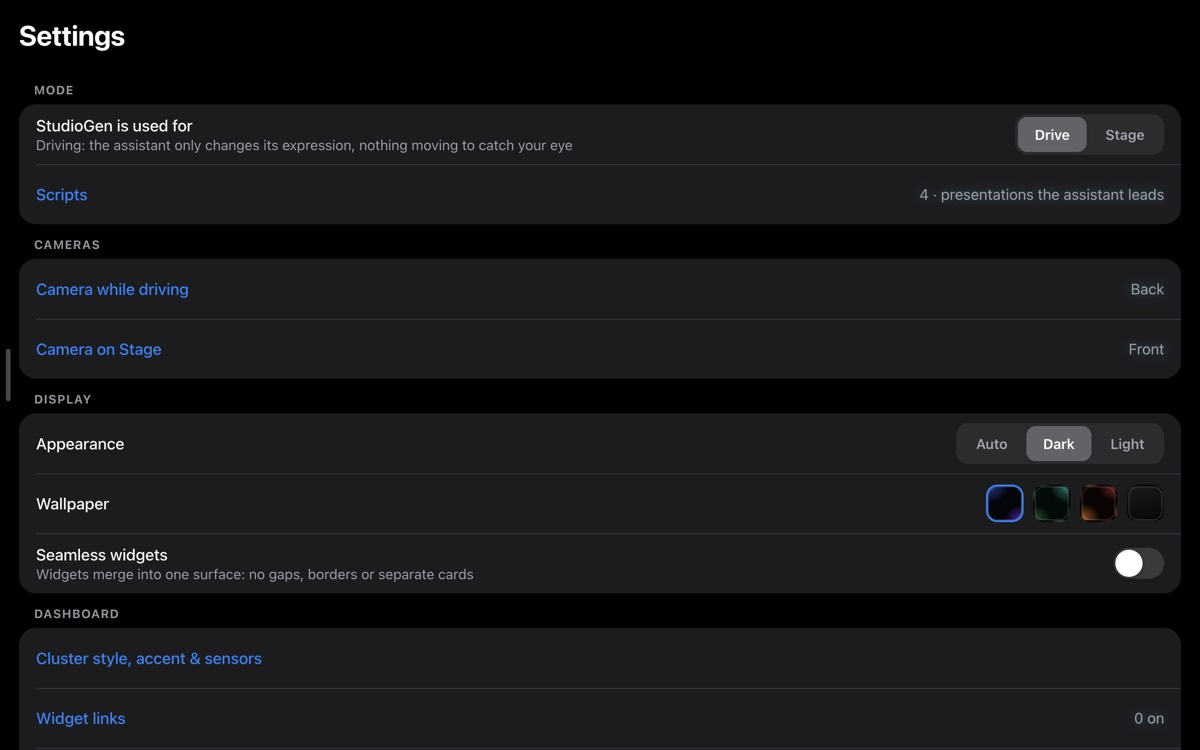
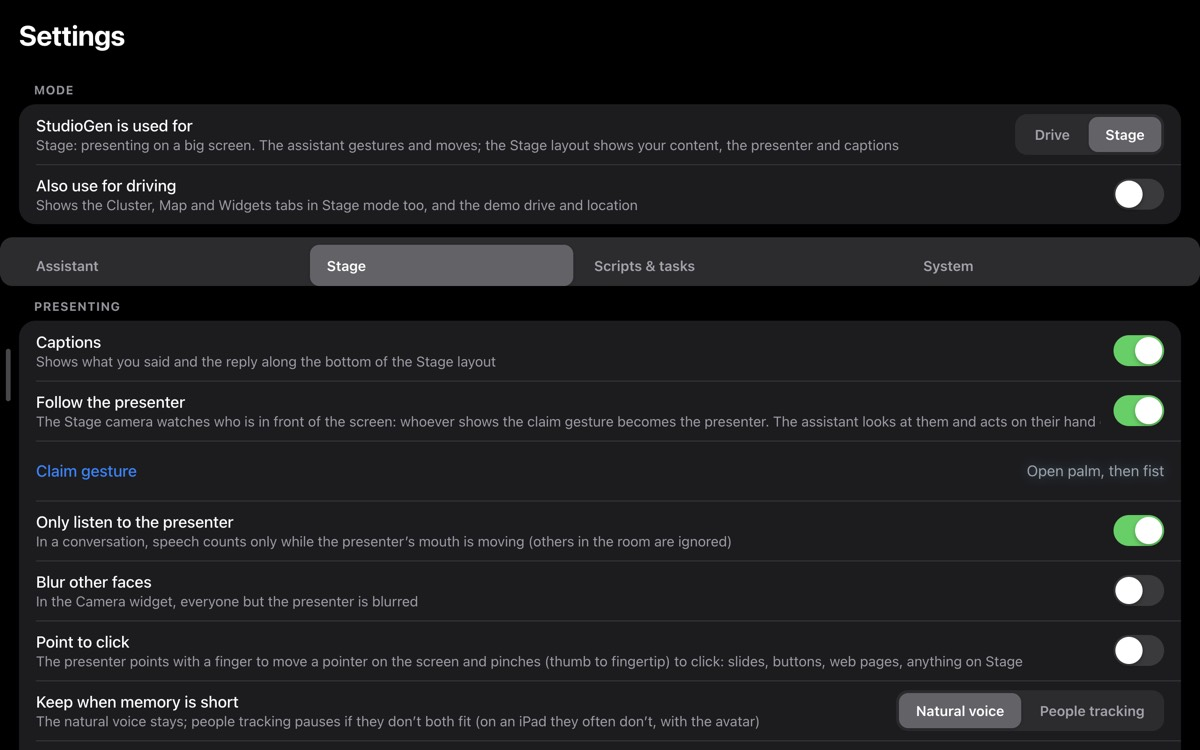
Settings in tabs by use; requirements page with the new screens
- Settings: the mode on top (what it's used for, also for driving), then tabs
  Assistant / Stage / Drive / Scripts & tasks / System; Drive only where it's used;
  Stage options in "Presenting"; a Scripts & tasks group (scripts, Understanding,
  connections, allowed tasks)
- docs/requirements.html: statuses updated, screenshots of the capture review,
  avatars, interactive editor, OS task, data widget and Connections

diff --git a/docs/requirements.html b/docs/requirements.html
@@ -46,7 +46,7 @@
 <body>
 <main>
   <h1>DriveGen &amp; StudioGen: requirements baseline</h1>
-  <p class="mut">What the two apps do, or are to do, from the user's point of view: one row per requirement, with its status. Updated as features are built. Baseline of 17 October 2026 (web files 33, desktop app 0.6.2).</p>
+  <p class="mut">What the two apps do, or are to do, from the user's point of view: one row per requirement, with its status. Updated as features are built. Baseline of 17 October 2026 (web files 33, desktop app 0.6.2); updated the same day as features landed (desktop app 0.8.0).</p>
 
   <ul class="toc">
     <li><a href="#vision">1. Vision: two apps, one code base</a></li>
@@ -78,12 +78,18 @@
     <figure><img src="req/drive-map.jpg" alt="Map layout"><figcaption>Drive: Map layout</figcaption></figure>
     <figure><img src="req/drive-widgets.jpg" alt="Widgets page"><figcaption>Drive: Widgets page</figcaption></figure>
     <figure><img src="req/stage.jpg" alt="Stage layout"><figcaption>Stage: a real browser widget (goindigo.in) beside the assistant</figcaption></figure>
-    <figure><img src="req/settings.jpg" alt="Settings"><figcaption>Settings: Mode, Cameras, Display… (one long list today)</figcaption></figure>
+    <figure><img src="req/settings.jpg" alt="Settings"><figcaption>Settings: the mode on top, then tabs by use (Assistant · Stage · Drive · Scripts &amp; tasks · System)</figcaption></figure>
     <figure><img src="req/scripts.jpg" alt="Scripts"><figcaption>Settings › Scripts: scripts, library address, sections</figcaption></figure>
     <figure><img src="req/editor.jpg" alt="Script editor"><figcaption>Script editor: storyboard cards with Show / Say / Next lanes</figcaption></figure>
     <figure><img src="req/library.jpg" alt="Library"><figcaption>Library: bundles to import, address, link</figcaption></figure>
     <figure><img src="req/motions.jpg" alt="Assistant motions"><figcaption>Assistant motions: preview, the assistant, capture</figcaption></figure>
     <figure><img src="req/capture.jpg" alt="Capture a motion"><figcaption>Capture a motion: full screen (test video as the camera)</figcaption></figure>
+    <figure><img src="req/capture-review.jpg" alt="Capture review"><figcaption>Capture review: trim bar; the legs keep the stance</figcaption></figure>
+    <figure><img src="req/avatars.jpg" alt="Avatars"><figcaption>Avatars: the core one, the others downloaded on request, add your own</figcaption></figure>
+    <figure><img src="req/interactive-editor.jpg" alt="Interactive script editor"><figcaption>Interactive script: intents with phrases, questions, steps (repeat, set…)</figcaption></figure>
+    <figure><img src="req/os-task.jpg" alt="Task on this computer"><figcaption>A task on this computer (JavaScript for Automation), its result kept as {front}</figcaption></figure>
+    <figure><img src="req/data-widget.jpg" alt="Data widget"><figcaption>Data widget on Stage: the Sales analyst sample, revenue by region</figcaption></figure>
+    <figure><img src="req/connections.jpg" alt="Connections"><figcaption>StudioGen › Connections: Tailscale, pairing code, devices, scripts offered</figcaption></figure>
     <figure class="tall"><img src="req/pwa-phone-portrait.jpg" alt="DriveGen phone"><figcaption>DriveGen on a phone (portrait, demo drive)</figcaption></figure>
     <figure><img src="req/pwa-phone-landscape.jpg" alt="DriveGen phone landscape"><figcaption>DriveGen on a phone in a car mount (landscape)</figcaption></figure>
     <figure><img src="req/pwa-ipad-stage.jpg" alt="DriveGen iPad stage"><figcaption>DriveGen on an iPad in Stage mode (sample deck)</figcaption></figure>
@@ -205,7 +211,7 @@ const REQS = [
   ['D-08','D','Radio, music hand-off, calls, messages, WhatsApp','Radio Browser stations; hand-off to the phone\'s apps; messages read aloud.','DP DT','built'],
   ['D-09','D','Camera object recognition and spoken alerts','YOLOv10 / D-FINE on the device; “what do you see?”.','DP DT','built'],
   ['D-10','D','Car safety','56 px+ tap targets, text hidden while moving, Drive rules apply on Stage when the car moves.','DP DT','built'],
-  ['D-11','D','Agentic in-car assistant','Converses with the driver, runs multi-step tasks (e.g. on a paired StudioGen), proactive updates.','DP','new','R3'],
+  ['D-11','D','Agentic in-car assistant','The pieces are in: interactive scripts (also in Drive mode, with the phone\'s voice), “run … on my Mac” over Tailscale, Understanding for free-form requests. Still to do: proactive updates while driving (traffic, messages, the Mac\'s jobs) and a ready-made in-car interactive script.','DP','part','R3'],
   ['V-01','V','Voice commands with forgiving matching','About 100 editable commands; exact, near-miss and loose matching with “Did you mean…?”.','ALL','built'],
   ['V-02','V','On-device listening (Whisper, Moonshine)','Phone recognizer in the car, on-device models on Stage and in StudioGen.','ALL','built'],
   ['V-03','V','Natural on-device reply voice (Kokoro)','Default in StudioGen; downloaded on first use on the web.','ALL','built'],
@@ -247,7 +253,7 @@ const REQS = [
   ['B-01','B','Export and import bundles','A script with its motions, helpers and recordings in one file.','ALL','built'],
   ['B-02','B','Library of bundles at a configurable address','Default this project\'s library/ on GitHub Pages; changed from Settings › Scripts.','ALL','built'],
   ['G-01','G','Version shown in DriveGen','Settings › System shows the version (the web app\'s release number) and Check for updates.','DP DT','built','R4'],
-  ['G-02','G','Settings designed per app and use','Groups: General, Assistant, Drive, Stage, Scripts & tasks, Connections, Advanced; Drive groups hidden in StudioGen unless used for driving.','ALL','new','R4'],
+  ['G-02','G','Settings designed per app and use','Settings in tabs by use: the mode on top (what it\'s used for, also for driving), then Assistant · Stage · Drive · Scripts & tasks · System; Drive only in DriveGen or when StudioGen is also used for driving; StudioGen opens on Stage, DriveGen in Drive mode on Drive.','ALL','built','R4'],
   ['G-03','G','“StudioGen is used for” with “Also for driving”','A checkbox next to the mode that brings back the Drive tabs and settings.','SG','built','R2'],
   ['G-04','G','Debug mode and logs','Hidden tab with a key; diagnostics, memory, log export.','ALL','built'],
   ['L-01','L','Pair DriveGen with StudioGen (QR code)','Decided: Tailscale. StudioGen › Settings › Connections: Tailscale status, Share on my tailnet (tailscale serve → https://<mac>.<tailnet>.ts.net, only your devices), Pair a device (one-time 6-digit code, 10 min, 5 tries), paired devices with Revoke.','ALL','built','R3'],

diff --git a/js/app.js b/js/app.js
@@ -1169,6 +1169,34 @@ listeners.push(updateDrive);
    ============================================================ */
 let deferredInstall = null;
 addEventListener('beforeinstallprompt', e => { e.preventDefault(); deferredInstall = e; });
+/* Settings in tabs, by what the app is used for: the mode on top, then Assistant · Stage · Drive · Scripts & tasks · System.
+   Drive is there in DriveGen, and in StudioGen only when it's also used for driving. Groups go to tabs by their title. */
+const SETTINGS_TABS = [['assistant', 'Assistant'], ['stage', 'Stage'], ['drive', 'Drive'], ['scripts', 'Scripts & tasks'], ['system', 'System']];
+const SETTINGS_TAB_OF = { Assistant: 'assistant', Voice: 'assistant', Cameras: 'stage', 'Scripts & tasks': 'scripts', Display: 'system', System: 'system',
+  Dashboard: 'drive', 'Camera & objects': 'drive', Driving: 'drive', Navigation: 'drive', 'Phone & apps': 'drive', Location: 'drive' };
+function settingsTabs() {
+  const body = $('#settingsBody'), titles = $$(':scope > .group-title', body); if (!titles.length || $('.set-tabs', body)) return;
+  const drive = APP_NAME !== 'StudioGen' || settings.driveTabs, tabs = SETTINGS_TABS.filter(([k]) => k !== 'drive' || drive);
+  let cur = store.get('setTab', null); if (!tabs.some(t => t[0] === cur)) cur = settings.appMode === 'stage' ? 'stage' : APP_NAME === 'StudioGen' ? 'stage' : 'drive';
+  let mode = null;
+  for (const t of titles) {
+    const k = t.textContent.trim() === 'Mode' ? 'mode' : SETTINGS_TAB_OF[t.textContent.trim()] || 'system', g = t.nextElementSibling;
+    for (const el of [t, g?.classList.contains('group') ? g : null]) if (el) el.dataset.tab = k;
+    if (k === 'mode') mode = g;
+  }
+  // The mode group keeps the two switches that decide the rest; its Stage options go to the Stage tab.
+  const rows = mode ? [...mode.children] : [];
+  if (rows.length > 2) {
+    const t = document.createElement('div'), g = document.createElement('div'); t.className = 'group-title'; t.textContent = 'Presenting'; g.className = 'group'; t.dataset.tab = g.dataset.tab = 'stage';
+    g.append(...rows.slice(2)); mode.after(t, g);
+  }
+  const bar = document.createElement('div'); bar.className = 'set-tabs seg'; bar.setAttribute('role', 'tablist');
+  bar.innerHTML = tabs.map(([k, l]) => `<button role="tab" data-settab="${k}" class="${k === cur ? 'on' : ''}" aria-selected="${k === cur}">${esc(l)}</button>`).join('');
+  (mode ? mode.after(bar) : body.prepend(bar));
+  const show = k => { $$('[data-tab]', body).forEach(el => { el.hidden = el.dataset.tab !== 'mode' && el.dataset.tab !== k; }); $$('[data-settab]', bar).forEach(b => { b.classList.toggle('on', b.dataset.settab === k); b.setAttribute('aria-selected', b.dataset.settab === k); }); };
+  show(cur);
+  bar.addEventListener('click', e => { const b = e.target.closest('[data-settab]'); if (!b) return; store.set('setTab', b.dataset.settab); show(b.dataset.settab); body.scrollTop = 0; });
+}
 function renderSettings() {
   if (typeof CmdUI !== 'undefined' && CmdUI.shown) return CmdUI.render();
   if (typeof LinkUI !== 'undefined' && LinkUI.shown) return LinkUI.render();
@@ -1186,9 +1214,14 @@ function renderSettings() {
     ${typeof Stage !== 'undefined' ? Stage.settingsHtml(seg, tog, btn) : ''}
     <div class="group-title">Assistant</div>
     <div class="group">
-      ${typeof Link !== 'undefined' ? btn('connections', window.DriveDeckDesktop?.link ? 'Connections (your iPhone and iPad)' : 'Your Mac (StudioGen)', Link.ready() ? esc(Link.mac().name || 'Paired') : window.DriveDeckDesktop?.link ? '' : 'Not paired') : ''}
-      ${typeof Brain !== 'undefined' ? btn('brain', 'Understanding (optional model)', Brain.ready() ? esc(Brain.cfg().provider === 'anthropic' ? 'Claude' : 'Your server') : 'Off') : ''}
       ${typeof Avatars !== 'undefined' ? btn('avatars', 'Avatars', esc(BUILTIN_MODELS[Wcfg.get('model~stage').builtin || AVATAR_CORE]?.name || 'Choose')) : ''}
+    </div>
+    <div class="group-title">Scripts &amp; tasks</div>
+    <div class="group">
+      ${typeof ScriptUI !== 'undefined' ? btn('scripts', 'Scripts', `${Scripts.all().length} · presentations, demos and interactive sessions`) : ''}
+      ${typeof Brain !== 'undefined' ? btn('brain', 'Understanding (optional model)', Brain.ready() ? esc(Brain.cfg().provider === 'anthropic' ? 'Claude' : 'Your server') : 'Off') : ''}
+      ${typeof Link !== 'undefined' ? btn('connections', window.DriveDeckDesktop?.link ? 'Connections (your iPhone and iPad)' : 'Your Mac (StudioGen)', Link.ready() ? esc(Link.mac().name || 'Paired') : window.DriveDeckDesktop?.link ? '' : 'Not paired') : ''}
+      ${typeof OsTasks !== 'undefined' && OsTasks.can() ? btn('osApprovals', 'Tasks you always allow', 'AppleScript, Shortcuts and shell code from scripts') : ''}
     </div>
     <div class="group-title">Display</div>
     <div class="group">
@@ -1265,10 +1298,10 @@ function renderSettings() {
       ${btn('fullscreen', document.fullscreenElement ? 'Exit full screen' : 'Enter full screen')}
       ${btn('installHelp', isStandalone() ? 'Installed' : 'Install on this device', isStandalone() ? '✓' : 'Full screen, no browser bars')}
       ${typeof DesktopUpdates !== 'undefined' && DesktopUpdates ? '' : btn('webUpdate', 'Check for updates', swReg?.waiting ? 'Ready: restart to use it' : 'Updates arrive by themselves too')}
-      ${typeof OsTasks !== 'undefined' && OsTasks.can() ? btn('osApprovals', 'Tasks you always allow', 'AppleScript, Shortcuts and shell code from scripts') : ''}
       ${typeof DesktopUpdates !== 'undefined' && DesktopUpdates ? DesktopUpdates.row() + btn('offlineAll', 'Download everything for offline use', 'Avatars and camera models download the first time they’re needed; this fetches them all now') : ''}
       <button class="row" data-action="versionTap"><div class="main"><div class="t">${APP_NAME}</div></div><span class="val">${window.DriveDeckDesktop?.updates && typeof DesktopUpdates !== 'undefined' && DesktopUpdates?.s?.shell ? `app ${DesktopUpdates.s.shell} · files ${DesktopUpdates.s.serving || 'built-in'}` : `version ${webVer || '…'}${swReg?.waiting ? ' · update ready' : ''}`}${typeof Log !== 'undefined' && Log.on ? ' · debug' : ''}</span></button>
     </div>`;
+  settingsTabs();
 }
 
 /* ============================================================

diff --git a/css/styles.css b/css/styles.css
@@ -1500,3 +1500,7 @@ table.bench small{color:var(--text-2)}
 .dw-cfg select[multiple]{min-width:160px}
 .lk-pair{display:flex;flex-wrap:wrap;align-items:center;gap:16px;margin:10px 0;padding:12px;border-radius:14px;background:rgba(127,127,127,.12)}
 .lk-code{font:700 40px/1 ui-monospace,Menlo,monospace;letter-spacing:4px}#lkQr{width:150px;height:150px;background:#fff;border-radius:8px;padding:4px}#lkQr svg{width:100%;height:100%}
+
+/* Settings tabs (settingsTabs in js/app.js) */
+.set-tabs{display:flex;flex-wrap:wrap;gap:4px;margin:14px 0 4px;position:sticky;top:0;z-index:2;backdrop-filter:blur(12px)}
+.set-tabs button{flex:1 1 auto;min-height:44px}

diff --git a/sw.js b/sw.js
@@ -1,7 +1,7 @@
 'use strict';
 /* DriveDeck service worker — hand-written, no build step.
    Bump VERSION whenever any file in SHELL changes so clients pick up the new copy. */
-const VERSION = 'v54';
+const VERSION = 'v55';
 const SHELL_CACHE = 'dd-shell-' + VERSION;
 const TILE_CACHE = 'dd-tiles';
 const TERRAIN_CACHE = 'dd-terrain';
